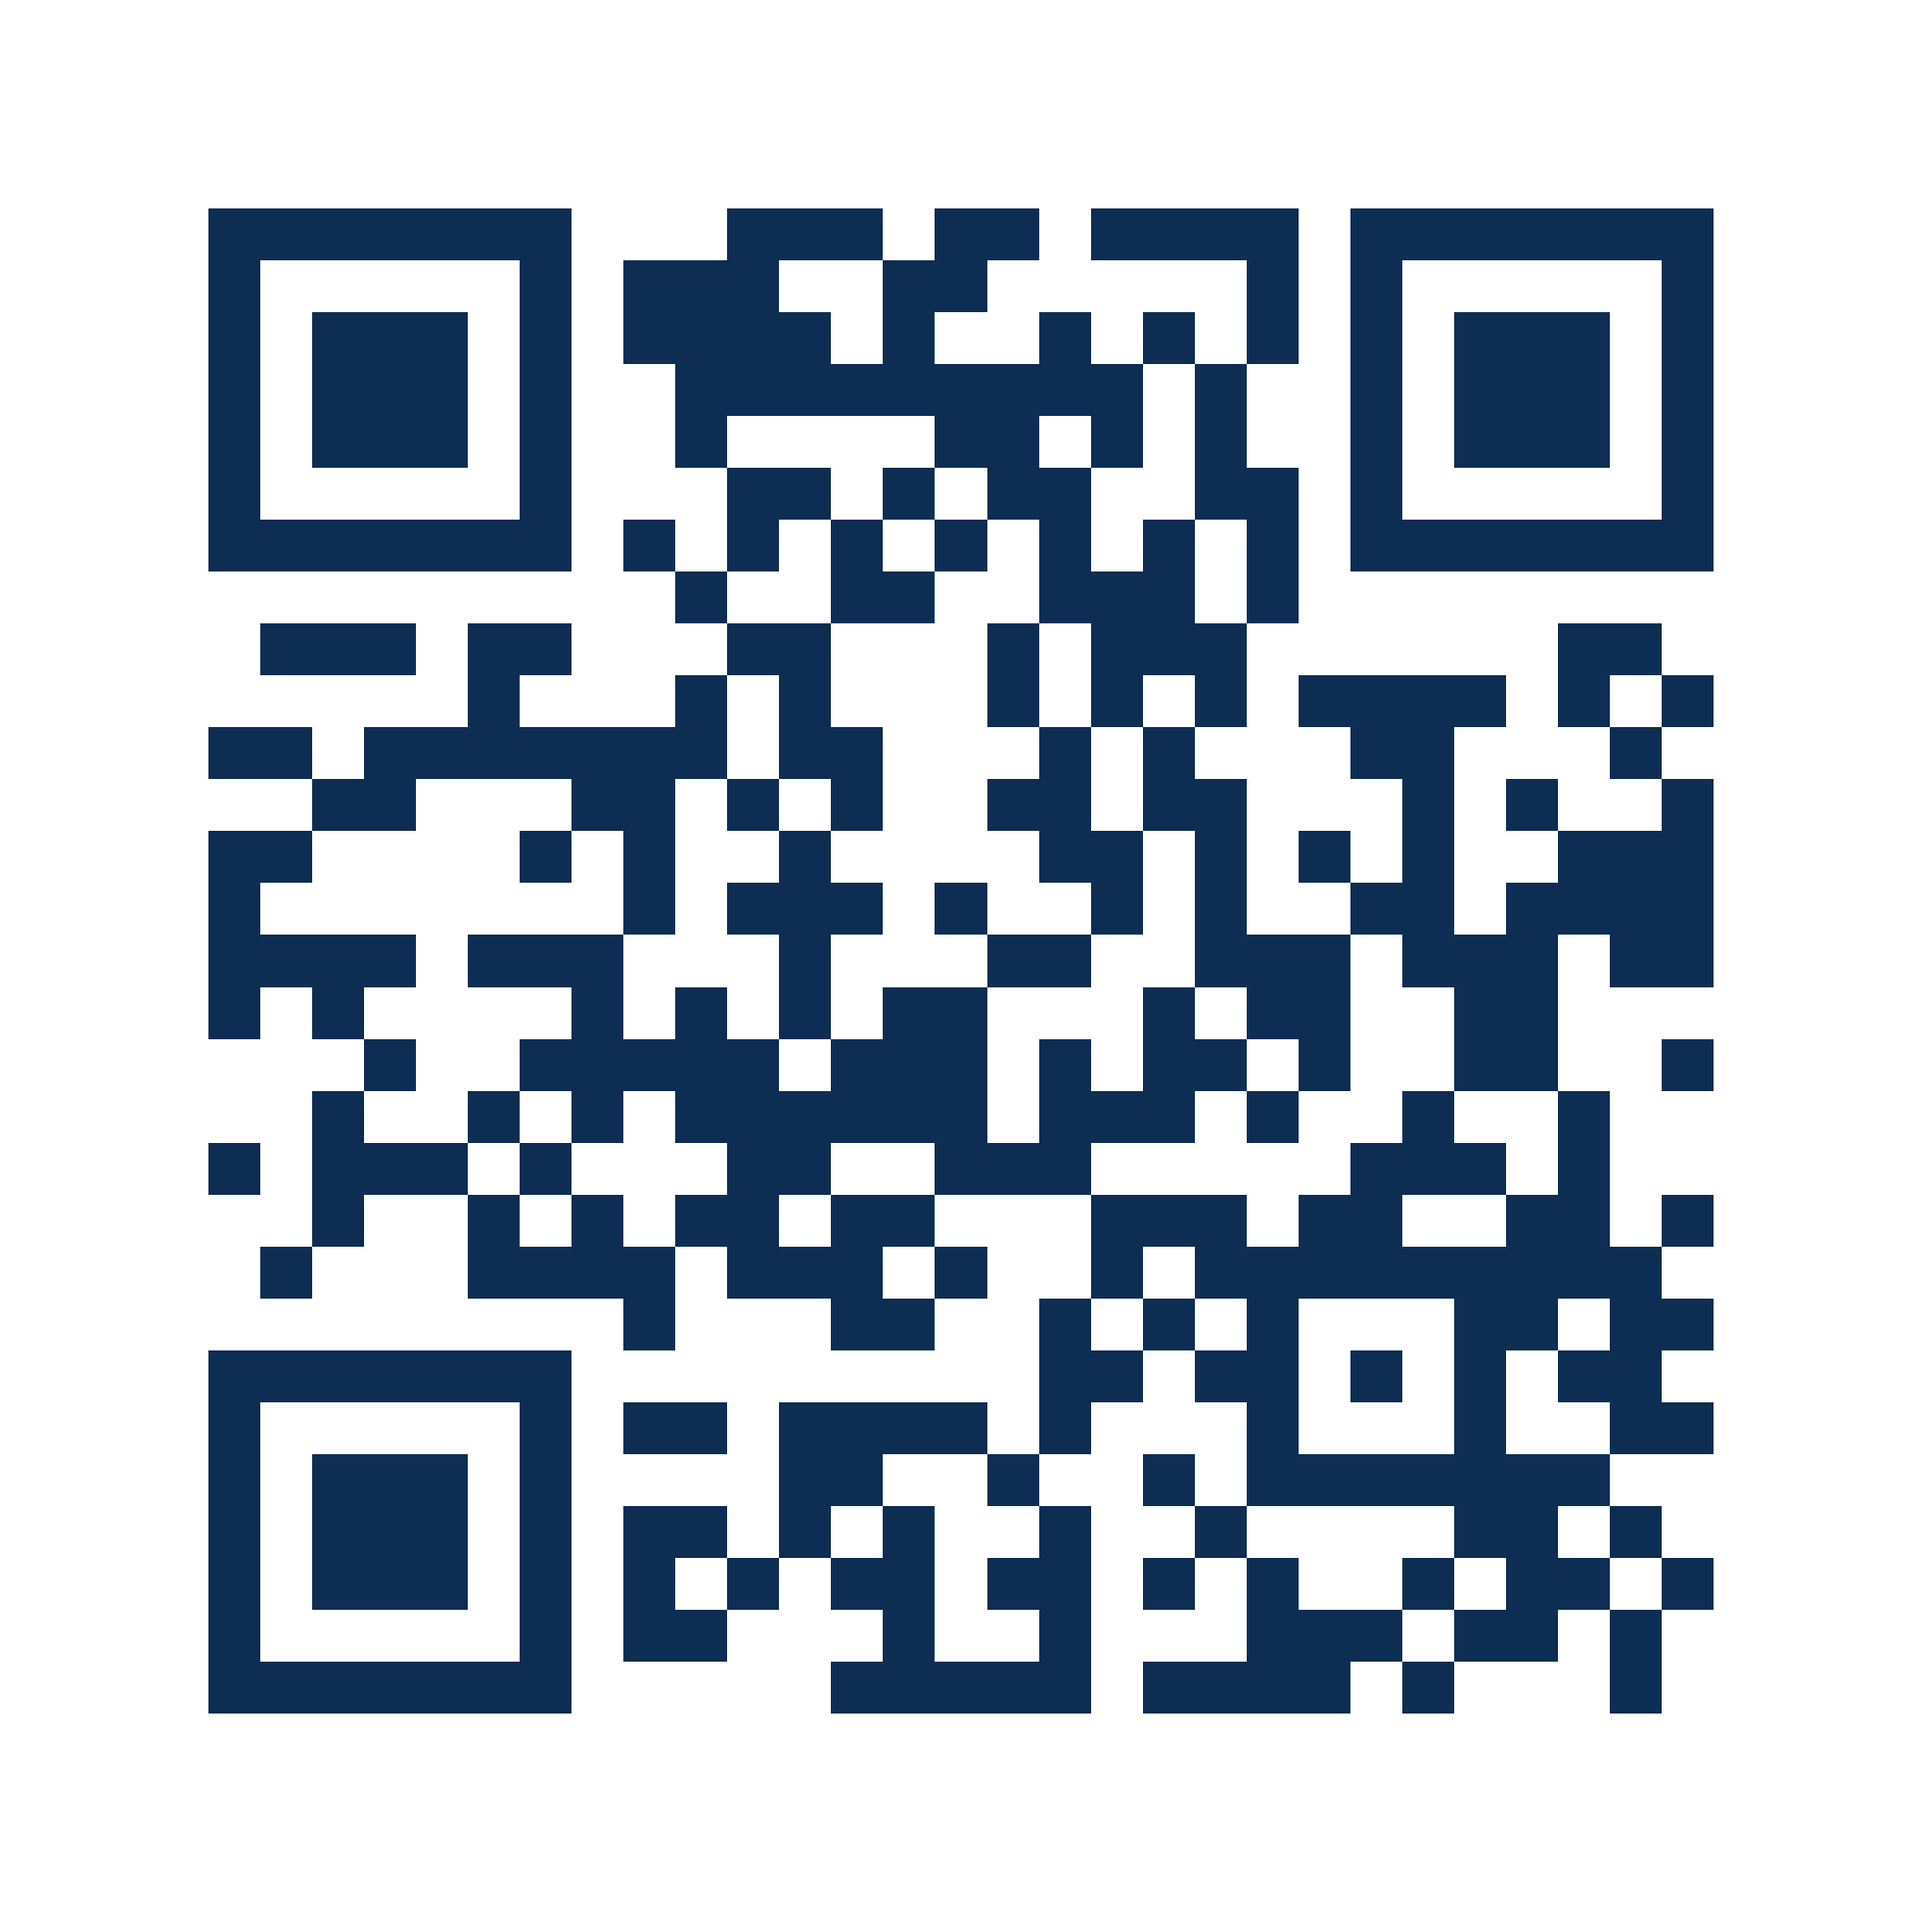
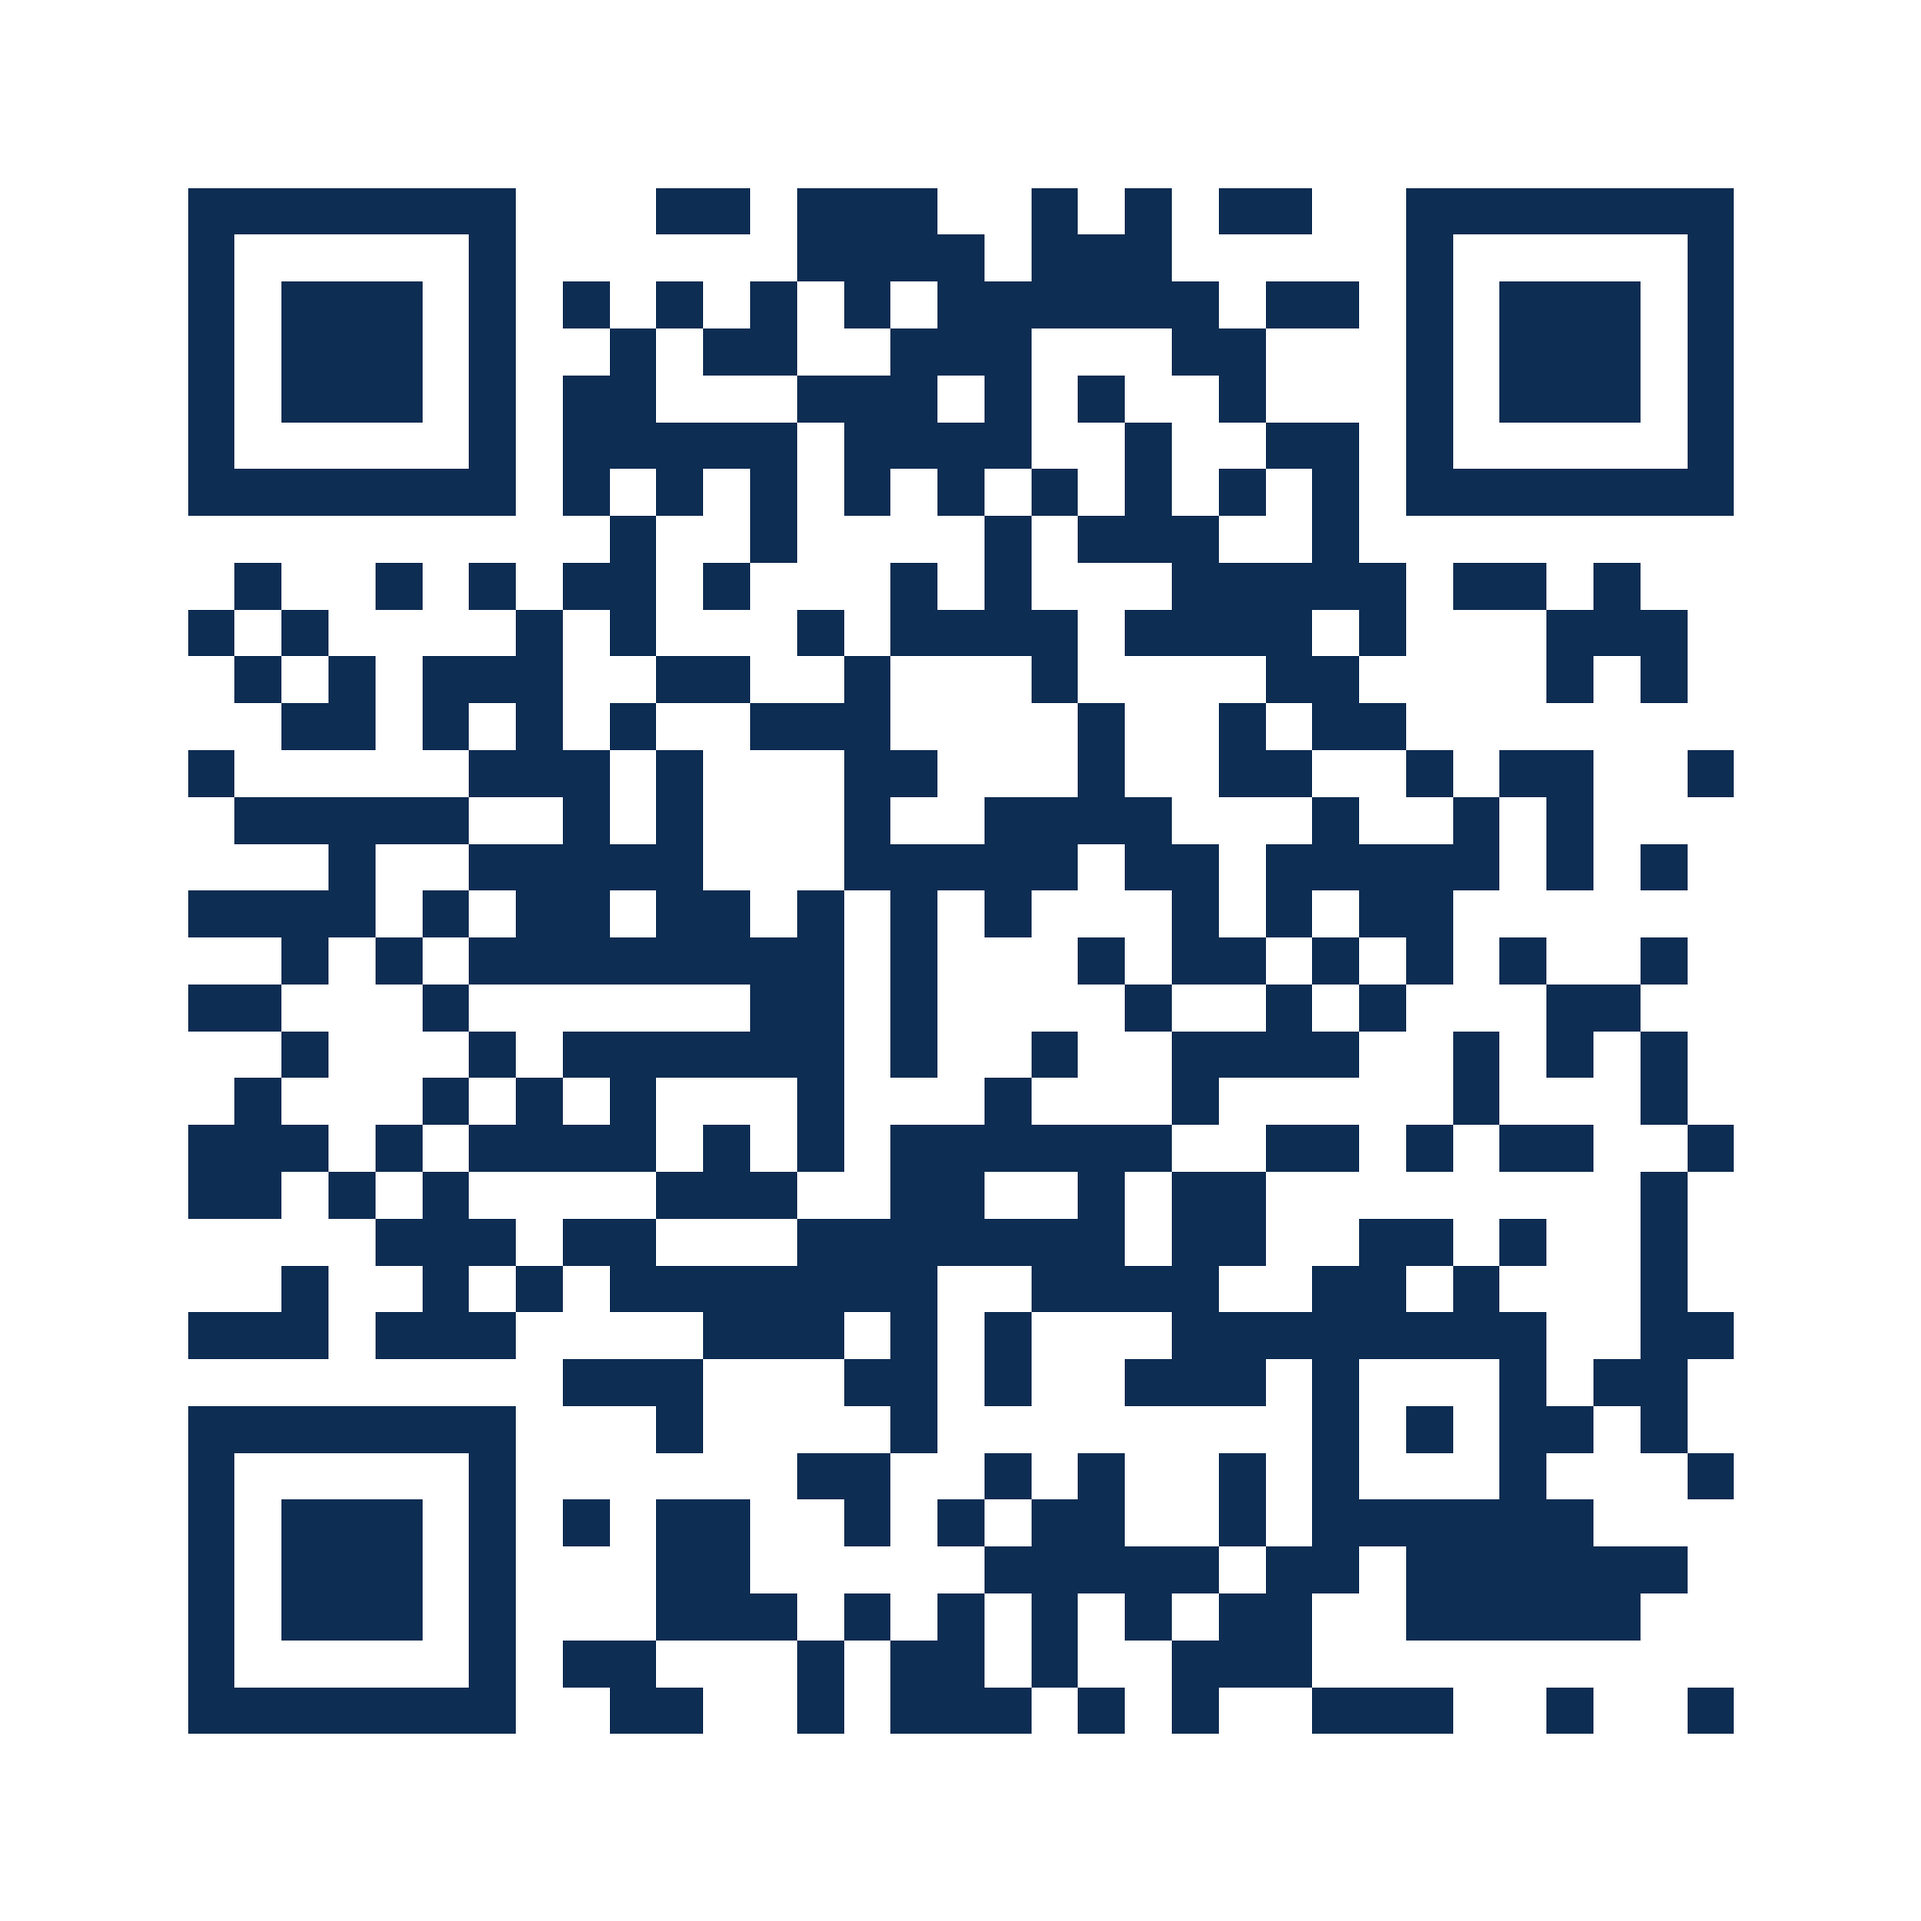
Regenerate QR sign for makomquiz2026.netlify.app
Claude-Session: https://claude.ai/code/session_01KKwqTxZcTqP1GPDbqG1X6N

diff --git a/print/qr-sign.html b/print/qr-sign.html
@@ -28,7 +28,7 @@
   <h1>Play. Learn. Win.</h1>
   <p class="sub">5 quick questions about Israel's communities. Enter for a chance to win a handmade Hanukkiah.</p>
   <img class="qr" src="qr.svg" alt="QR code to the MAKOM quiz">
-  <p class="url">makom-quiz.netlify.app</p>
+  <p class="url">makomquiz2026.netlify.app</p>
   <p class="fine">No purchase necessary. See Official Rules online.</p>
   <div class="cobrand">
     <img src="jnf-usa-print.jpg" alt="Jewish National Fund-USA">

diff --git a/README.md b/README.md
@@ -28,7 +28,7 @@ If you change `Code.gs` later, use **Deploy > Manage deployments > Edit > New ve
 
 1. Push this folder to a GitHub repo, for example `makom-gc2026-quiz`.
 2. In Netlify: **Add new site > Import an existing project**, pick the repo. Build command: empty. Publish directory: `.` (also set in `netlify.toml`).
-3. **Site configuration > Change site name** to `makom-quiz` (or `makom-gc2026` if taken).
+3. The live site is https://makomquiz2026.netlify.app. Do not rename it after the sign is printed.
 4. When files other than `content.js` change, increase `CACHE` in `sw.js` (for example `makom-quiz-v2`) so phones pick up the new version.
 
 ## Booth QR sign
@@ -36,7 +36,7 @@ If you change `Code.gs` later, use **Deploy > Manage deployments > Edit > New ve
 After the site name is final, run:
 
 ```bash
-scripts/make-qr.sh https://makom-quiz.netlify.app
+scripts/make-qr.sh https://makomquiz2026.netlify.app
 ```
 
 It writes `print/qr.svg`, `print/qr.png` and `print/qr-sign-letter.pdf` (US Letter). Print the PDF and test-scan it from about 1 m. Once the sign is printed, the URL must not change.
